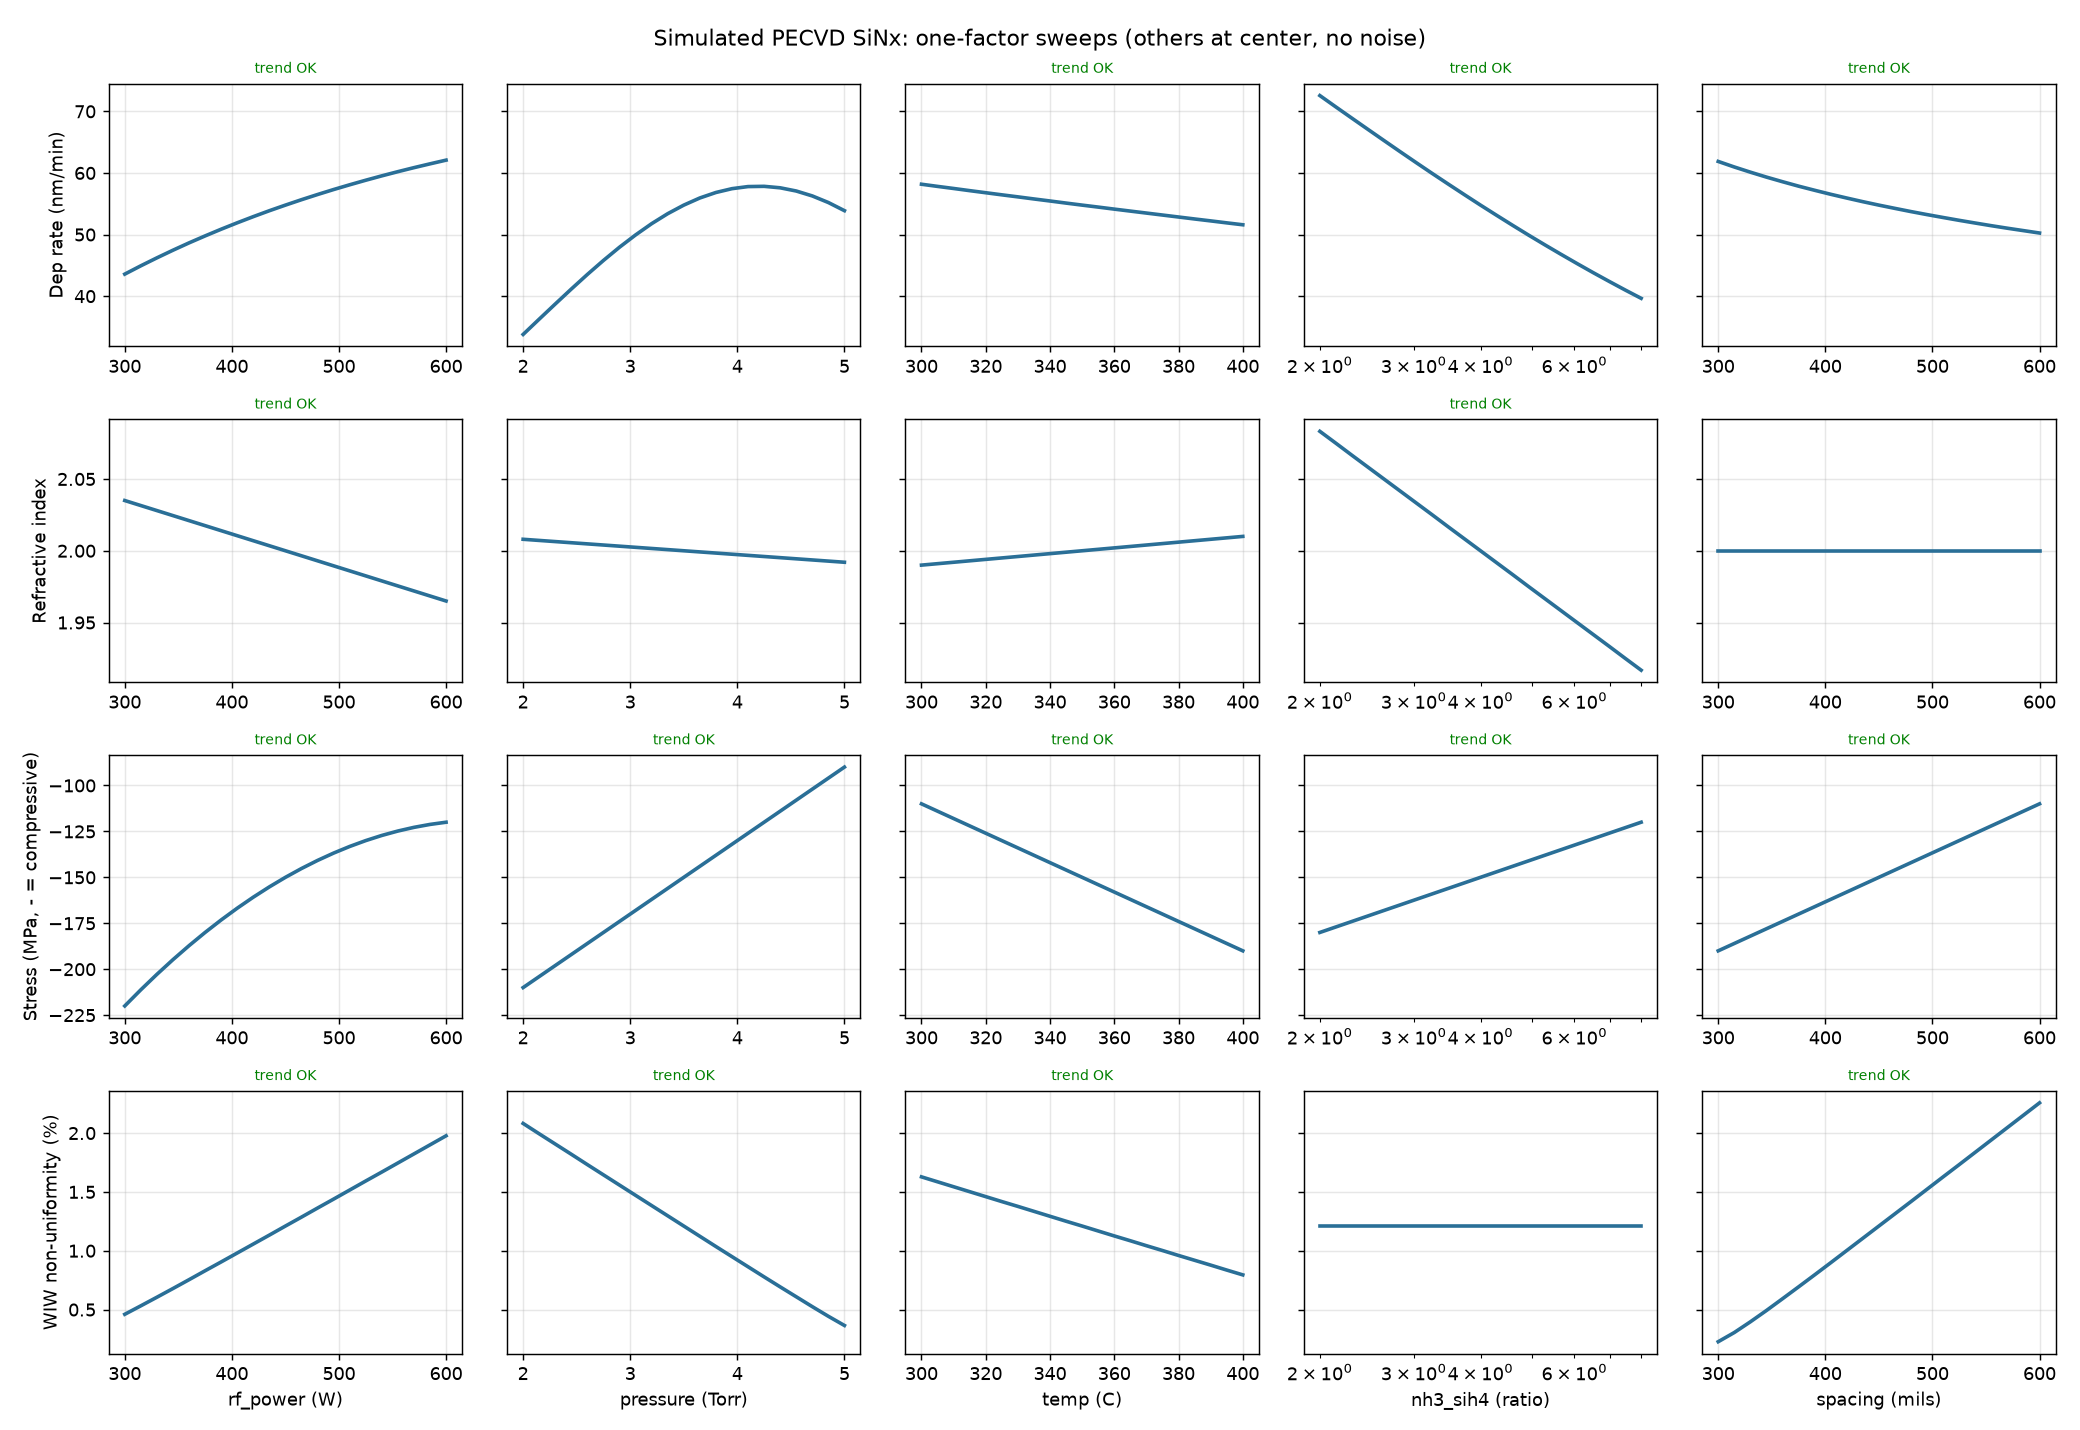
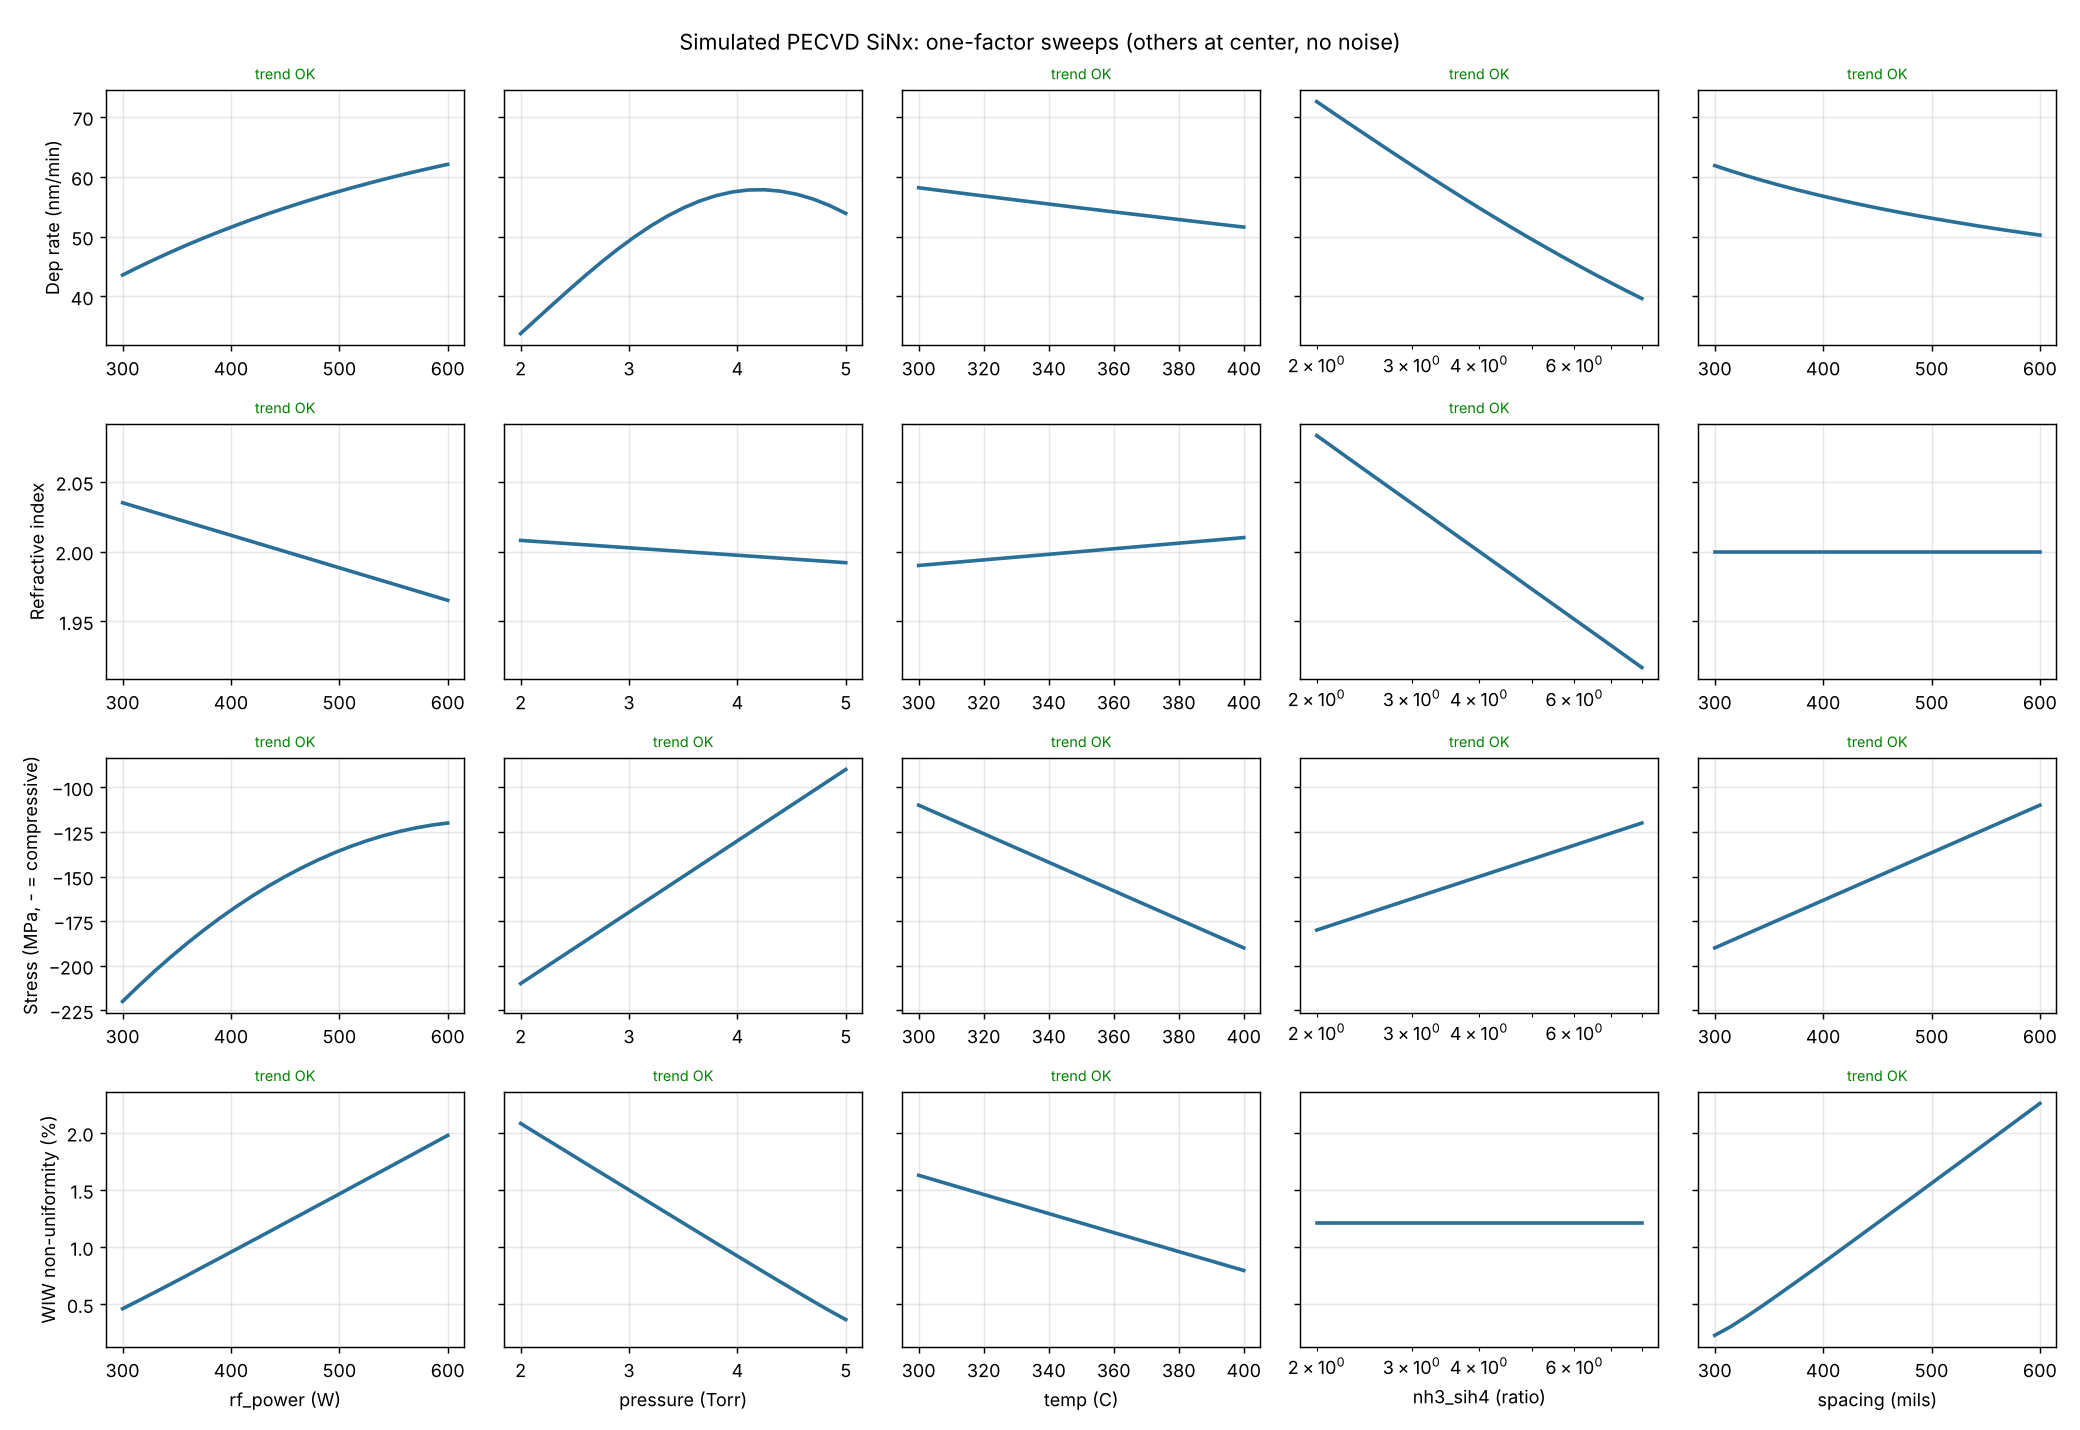
Step 2: Gauge R&R study data and ANOVA analysis

diff --git a/src/gauge_rr.py b/src/gauge_rr.py
@@ -1,0 +1,184 @@
+"""
+Step 2: Measurement System Analysis (crossed Gauge R&R).
+
+Generates a classic AIAG crossed study (10 wafers x 3 operators x 3 trials,
+randomized run order) for three gauges: ellipsometer thickness (center site),
+ellipsometer refractive index (center site) and the stress gauge.
+
+Writes:
+  data/gauge_rr_study.csv          -> open this in JMP
+  data/gauge_rr_results.csv        -> Python ANOVA results to check JMP against
+  plots/gauge_rr_variability.png   -> variability chart
+
+Method: two-way ANOVA with Wafer x Operator interaction (AIAG MSA 4th ed.),
+variance components from expected mean squares with negatives set to zero,
+matching JMP's Variability Chart Gauge R&R. Study variation uses 6 sigma.
+"""
+from pathlib import Path
+import numpy as np
+import pandas as pd
+from scipy import stats
+import matplotlib
+matplotlib.use("Agg")
+import matplotlib.pyplot as plt
+
+from config import FACTORS
+from pecvd import Recipe, make_fleet
+from metrology import Ellipsometer, StressGauge
+
+ROOT = Path(__file__).resolve().parents[1]
+SEED = 2026
+N_WAFERS, OPERATORS, N_TRIALS = 10, ["OP1", "OP2", "OP3"], 3
+
+# Illustrative spec limits (LSL, USL) used for % tolerance
+SPECS = {
+    "Thickness_A": (2850.0, 3150.0),
+    "RI":          (1.980, 2.020),
+    "Stress_MPa":  (-200.0, -100.0),
+}
+CENTER_SITE = 0
+
+
+def make_parts(rng):
+    """10 production wafers spread across the 4 chambers with normal
+    recipe-to-recipe variation, so parts represent the real process range."""
+    fleet = make_fleet(seed=SEED)
+    names = list(fleet)
+    wafers = []
+    for i in range(N_WAFERS):
+        ch = fleet[names[i % len(names)]]
+        r = Recipe(**{k: FACTORS[k][1] * (1 + rng.normal(0, 0.01)) for k in FACTORS})
+        w = ch.run(r)
+        w.wafer_id = f"W{i + 1:02d}"
+        wafers.append(w)
+    return wafers
+
+
+def generate_study():
+    rng = np.random.default_rng(SEED)
+    wafers = make_parts(rng)
+    ellip = Ellipsometer(np.random.default_rng(SEED + 1))
+    sg = StressGauge(np.random.default_rng(SEED + 2))
+
+    rows = []
+    for trial in range(1, N_TRIALS + 1):
+        for op in OPERATORS:
+            for w in wafers:
+                thk, ri = ellip.measure(w, op)
+                rows.append({
+                    "Wafer": w.wafer_id, "Operator": op, "Trial": trial,
+                    "Thickness_A": round(float(thk[CENTER_SITE]), 2),
+                    "RI": round(float(ri[CENTER_SITE]), 5),
+                    "Stress_MPa": round(float(sg.measure(w, op)), 2),
+                })
+    df = pd.DataFrame(rows)
+    # Randomized run order, as a real study would be run
+    order = rng.permutation(len(df)) + 1
+    df.insert(0, "RunOrder", order)
+    return df.sort_values("RunOrder").reset_index(drop=True)
+
+
+def anova_grr(df, y, lsl, usl, alpha_pool=None, k=6.0):
+    """AIAG ANOVA-method Gauge R&R for a balanced crossed study.
+    alpha_pool=None keeps the interaction term (matches JMP's default);
+    alpha_pool=0.25 pools a non-significant interaction (AIAG option)."""
+    p, o = df["Wafer"].nunique(), df["Operator"].nunique()
+    r = len(df) // (p * o)
+    g = df[y].mean()
+    m_part = df.groupby("Wafer")[y].mean()
+    m_op = df.groupby("Operator")[y].mean()
+    m_cell = df.groupby(["Wafer", "Operator"])[y].mean()
+
+    ss_part = o * r * ((m_part - g) ** 2).sum()
+    ss_op = p * r * ((m_op - g) ** 2).sum()
+    cell = m_cell.reset_index()
+    inter = cell[y] - cell["Wafer"].map(m_part) - cell["Operator"].map(m_op) + g
+    ss_int = r * (inter ** 2).sum()
+    ss_err = ((df[y] - df.set_index(["Wafer", "Operator"]).index.map(m_cell)) ** 2).sum()
+
+    df_part, df_op, df_int, df_err = p - 1, o - 1, (p - 1) * (o - 1), p * o * (r - 1)
+    ms_part, ms_op = ss_part / df_part, ss_op / df_op
+    ms_int, ms_err = ss_int / df_int, ss_err / df_err
+    p_int = stats.f.sf(ms_int / ms_err, df_int, df_err)
+
+    pooled = alpha_pool is not None and p_int > alpha_pool
+    if pooled:
+        ms_e = (ss_int + ss_err) / (df_int + df_err)
+        var_rep, var_int, denom = ms_e, 0.0, ms_e
+    else:
+        var_rep = ms_err
+        var_int = max(0.0, (ms_int - ms_err) / r)
+        denom = ms_int
+    var_op = max(0.0, (ms_op - denom) / (p * r))
+    var_part = max(0.0, (ms_part - denom) / (o * r))
+
+    var_repro = var_op + var_int
+    var_grr = var_rep + var_repro
+    var_total = var_grr + var_part
+    tol = usl - lsl
+
+    def pct_sv(v):  # % of study variation (ratio of std devs)
+        return 100 * np.sqrt(v / var_total)
+
+    def pct_tol(v):
+        return 100 * k * np.sqrt(v) / tol
+
+    res = {
+        "Response": y,
+        "Interaction p": round(p_int, 3),
+        "Interaction pooled": pooled,
+        "Repeatability SD": np.sqrt(var_rep),
+        "Reproducibility SD": np.sqrt(var_repro),
+        "GRR SD": np.sqrt(var_grr),
+        "Part SD": np.sqrt(var_part),
+        "%SV Repeatability": pct_sv(var_rep),
+        "%SV Reproducibility": pct_sv(var_repro),
+        "%SV GRR": pct_sv(var_grr),
+        "%SV Part": pct_sv(var_part),
+        "%Tol GRR": pct_tol(var_grr),
+        "ndc": int(np.floor(1.41 * np.sqrt(var_part / var_grr))) if var_grr > 0 else 999,
+    }
+    worst = max(res["%SV GRR"], res["%Tol GRR"])
+    res["Verdict"] = ("Acceptable" if worst < 10 else
+                      "Marginal" if worst <= 30 else "Not acceptable")
+    return res
+
+
+def plot_variability(df, path):
+    fig, axes = plt.subplots(3, 1, figsize=(13, 10))
+    colors = {"OP1": "#2a6f97", "OP2": "#e07a1f", "OP3": "#3a9d5d"}
+    wafers = sorted(df["Wafer"].unique())
+    for ax, (y, (lsl, usl)) in zip(axes, SPECS.items()):
+        for i, w in enumerate(wafers):
+            for j, op in enumerate(colors):
+                vals = df[(df.Wafer == w) & (df.Operator == op)][y]
+                x = i * 4 + j
+                ax.scatter([x] * len(vals), vals, color=colors[op], s=18,
+                           label=op if i == 0 else None)
+                ax.plot([x - 0.3, x + 0.3], [vals.mean()] * 2, color=colors[op], lw=2)
+        ax.set_xticks([i * 4 + 1 for i in range(len(wafers))], wafers)
+        ax.set_ylabel(y)
+        ax.grid(alpha=0.3)
+    axes[0].legend(ncol=3, loc="upper right")
+    fig.suptitle("Gauge R&R variability chart: 10 wafers x 3 operators x 3 trials")
+    fig.tight_layout()
+    fig.savefig(path, dpi=130)
+
+
+def main():
+    df = generate_study()
+    (ROOT / "data").mkdir(exist_ok=True)
+    df.to_csv(ROOT / "data" / "gauge_rr_study.csv", index=False)
+
+    results = pd.DataFrame([anova_grr(df, y, *SPECS[y]) for y in SPECS])
+    results.to_csv(ROOT / "data" / "gauge_rr_results.csv", index=False, float_format="%.5g")
+    plot_variability(df, ROOT / "plots" / "gauge_rr_variability.png")
+
+    pd.set_option("display.width", 200)
+    show = results.set_index("Response").T
+    print(show.to_string(float_format=lambda v: f"{v:.4g}"))
+    print("\nAIAG guideline: <10% acceptable, 10-30% marginal, >30% not acceptable; ndc >= 5.")
+
+
+if __name__ == "__main__":
+    main()

diff --git a/README.md b/README.md
@@ -13,7 +13,7 @@
 | Step | Method | Tool | Status |
 |---|---|---|---|
 | 1. PECVD chamber simulator | Physics-informed response model, 49-point wafer maps, 4 chambers | Python | Done |
-| 2. Measurement system analysis | Crossed Gauge R&R (ellipsometer, stress gauge) | JMP + Python | Planned |
+| 2. Measurement system analysis | Crossed Gauge R&R (ellipsometer, stress gauge) | JMP + Python | In progress |
 | 3. Factor screening | 2^(5-1) fractional factorial | JMP + Python | Planned |
 | 4. Process window optimization | Central composite RSM, multi-response desirability | JMP + Python | Planned |
 | 5. Variance sources and chamber matching | Nested variance components, ANOVA, Cpk per chamber | JMP + Python | Planned |
@@ -55,6 +55,7 @@ pip install -r requirements.txt
 cd src
 python pecvd.py                # run the center recipe on all 4 chambers
 python verify_trends.py        # literature trend check + plot
+python gauge_rr.py             # Step 2: Gauge R&R data + ANOVA results
 ```
 
 ## Project structure
